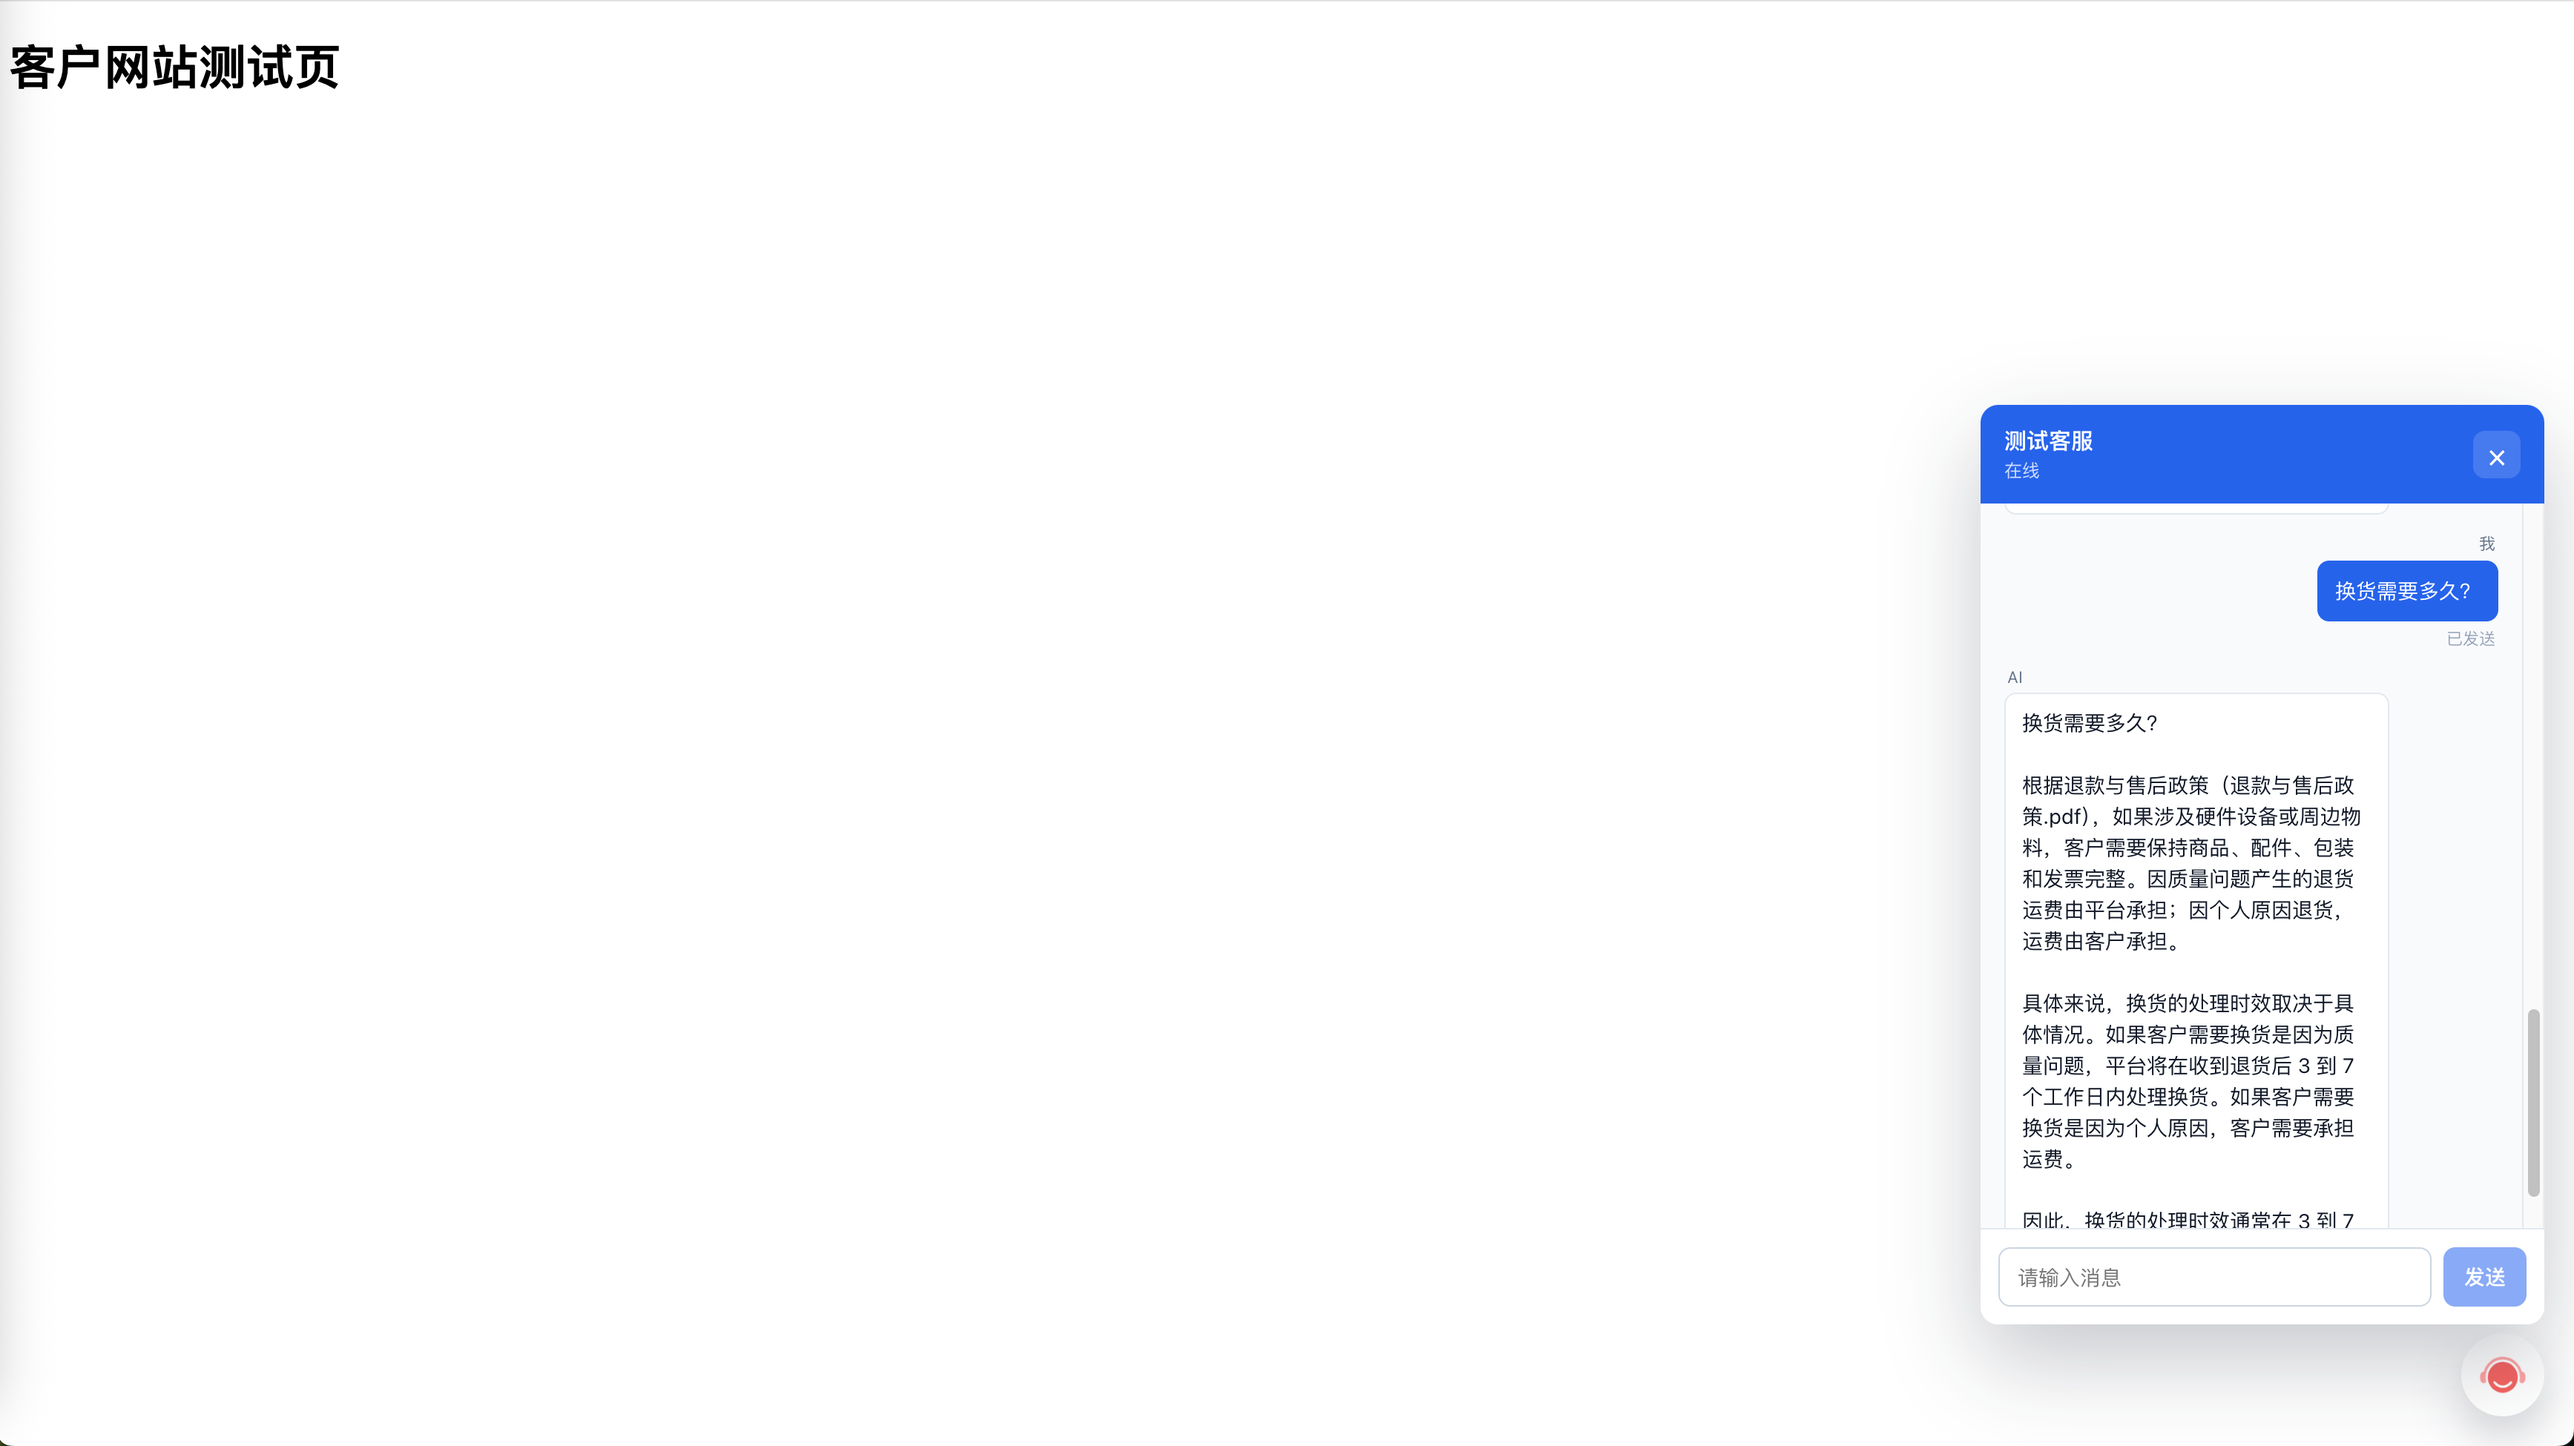
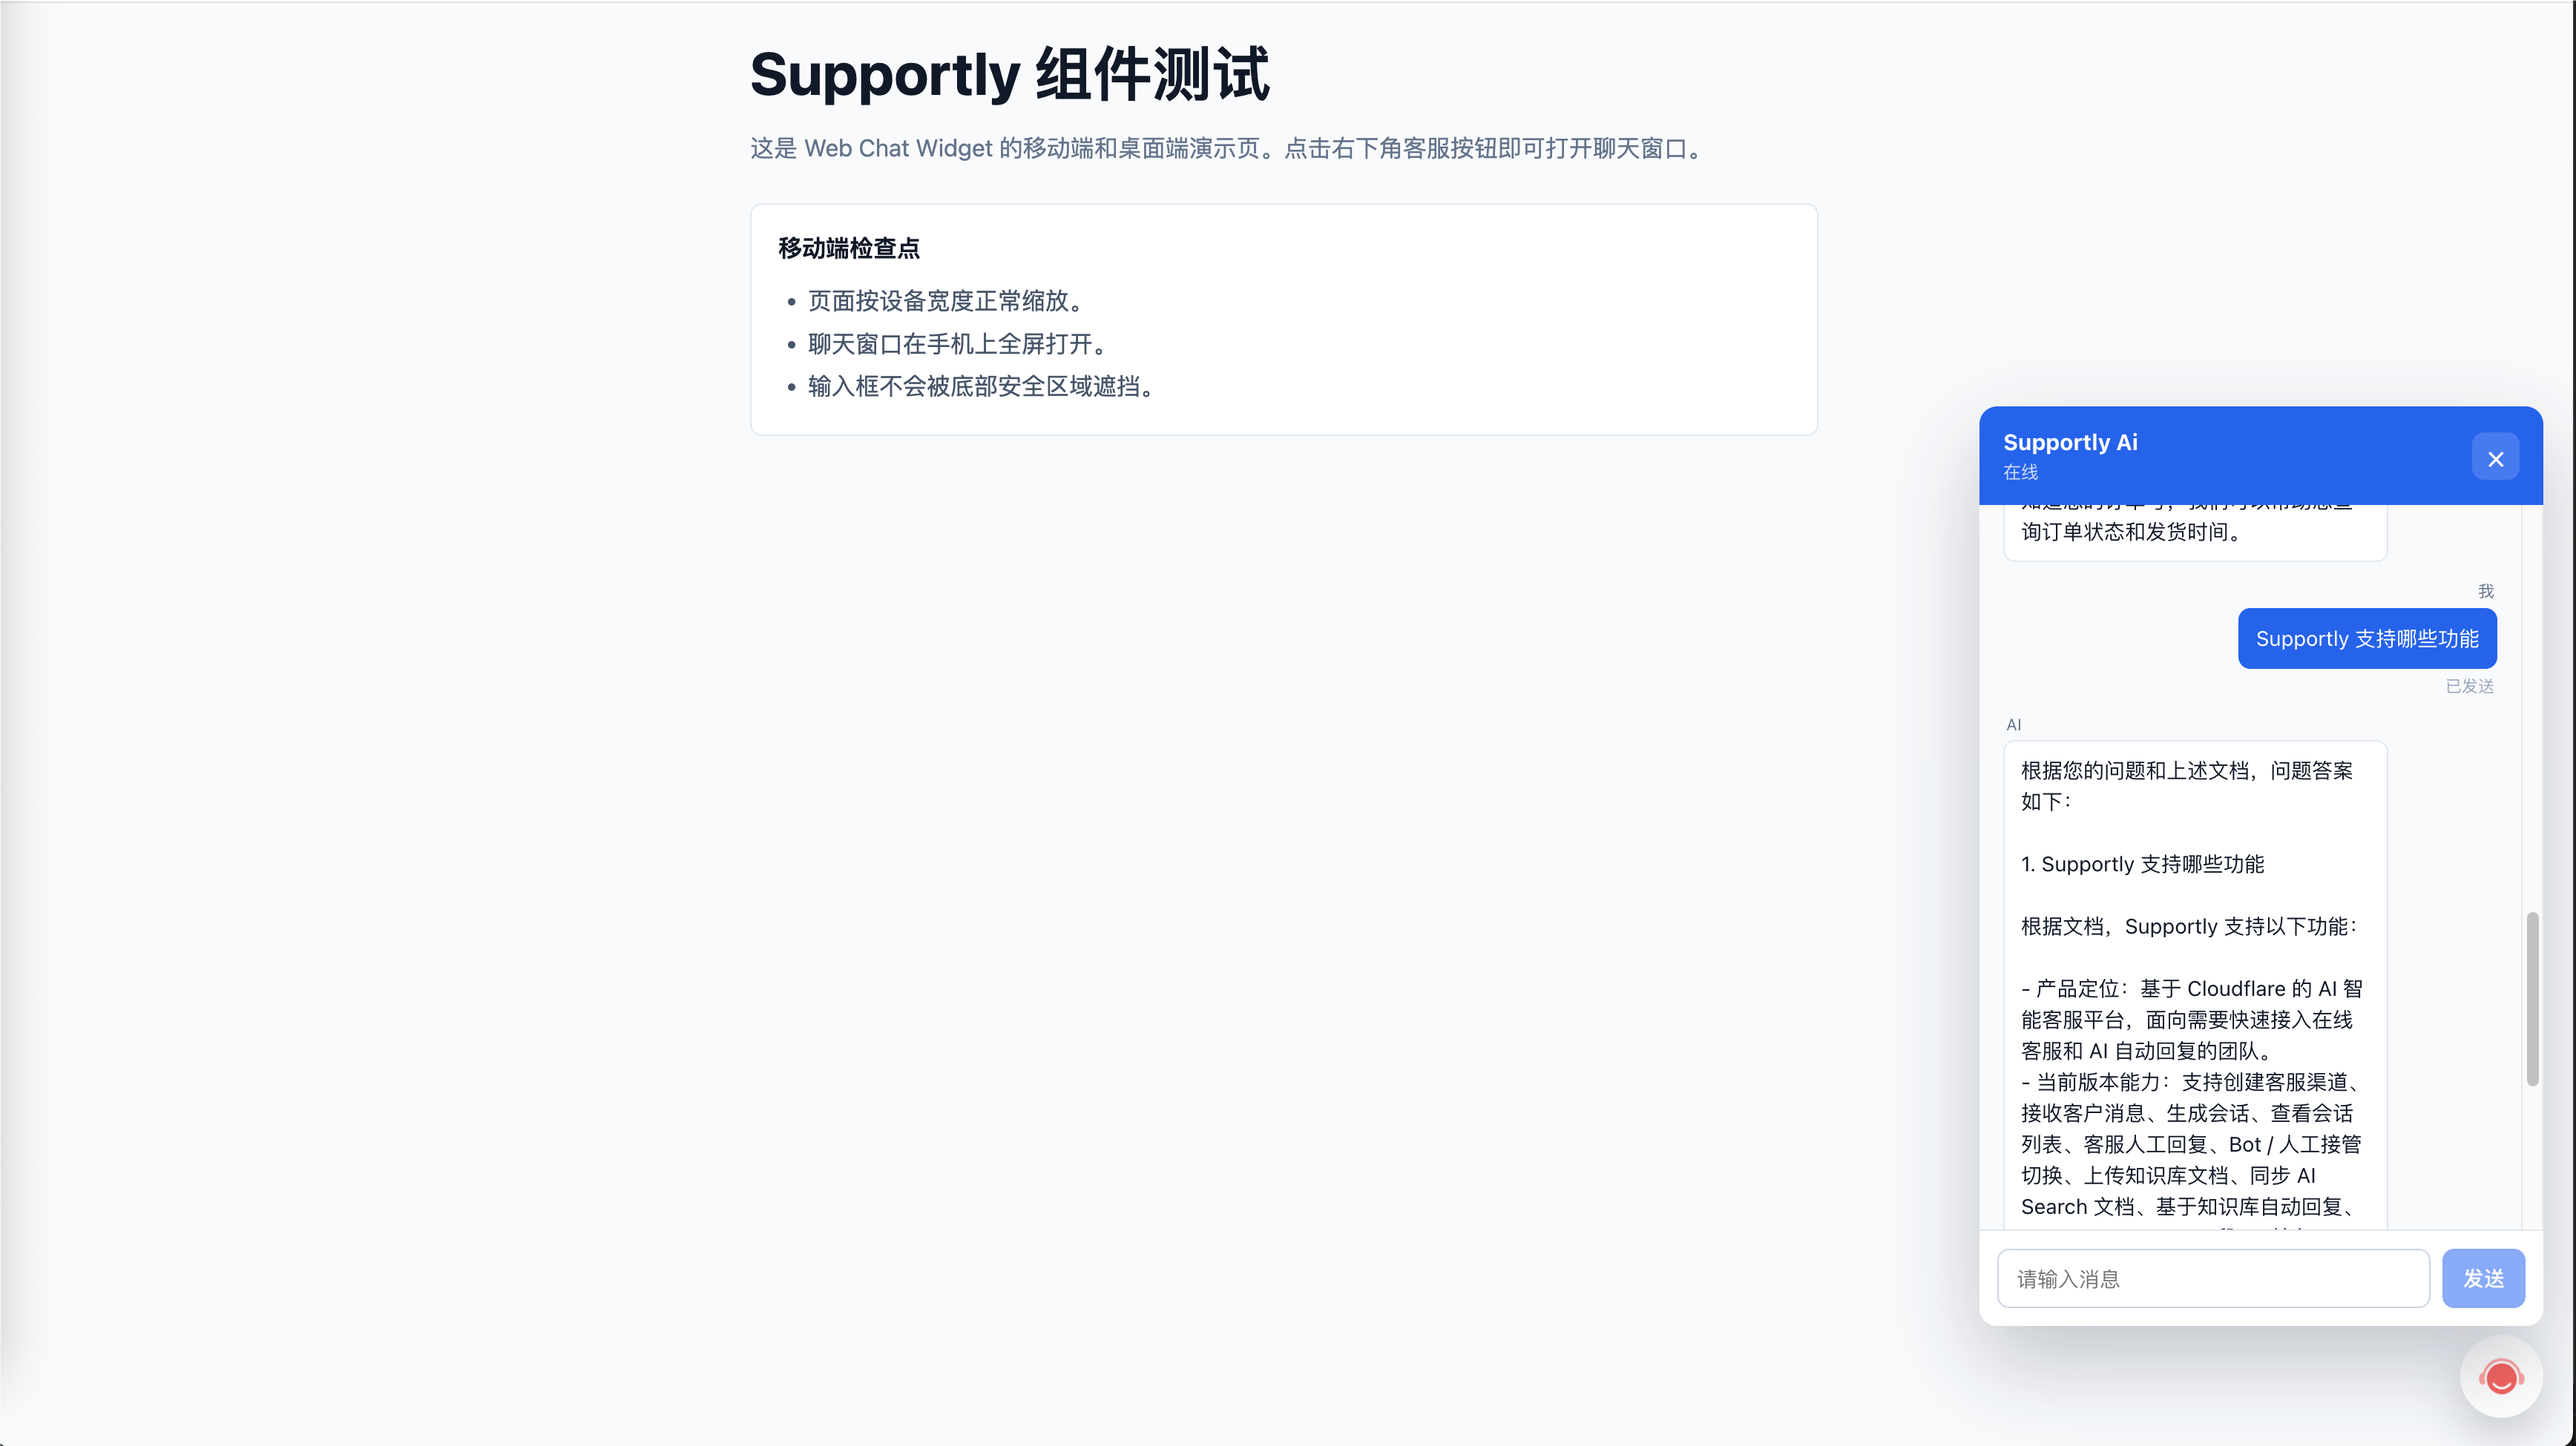
docs(readme): add mobile widget screenshot

diff --git a/README.md b/README.md
@@ -72,6 +72,8 @@ Widget Demo：https://supportly.comarket.dev/demo
 
 ![Supportly Web Chat Widget](./docs/screenshot/web-widget.png)
 
+![Supportly Web Chat Widget Mobile](./docs/screenshot/web-widget-mobile.png)
+
 ### Telegram Bot
 
 ![Supportly Telegram Bot](./docs/screenshot/telegarm.png)
